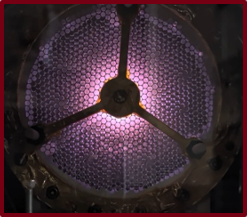
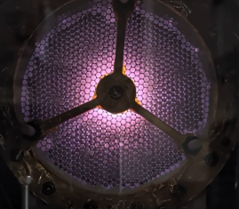
Crop baked-in maroon border off ion-thruster images for uniform grid
final-cad.png, front-plasma.png, and top-plasma.png each had a 4px
maroon border baked into the pixels (leftover from a slide export),
which made them look inconsistent next to the new final-assembly
photo that has no border. Cropped the border off all three and
updated their width/height attributes to match.

diff --git a/projects/ion-thruster-test-stand.html b/projects/ion-thruster-test-stand.html
@@ -73,7 +73,7 @@
       </article>
       <div class="media-grid media-grid--compact">
         <figure>
-          <img src="../assets/projects/ion-thruster/final-cad.png" width="259" height="259" loading="lazy" alt="CAD model of the ion thruster assembly." />
+          <img src="../assets/projects/ion-thruster/final-cad.png" width="251" height="251" loading="lazy" alt="CAD model of the ion thruster assembly." />
           <figcaption>Final CAD model.</figcaption>
         </figure>
         <figure>
@@ -81,11 +81,11 @@
           <figcaption>Final assembled hardware.</figcaption>
         </figure>
         <figure>
-          <img src="../assets/projects/ion-thruster/front-plasma.png" width="247" height="217" loading="lazy" alt="Front plasma glow visible through the ion thruster hardware." />
+          <img src="../assets/projects/ion-thruster/front-plasma.png" width="239" height="209" loading="lazy" alt="Front plasma glow visible through the ion thruster hardware." />
           <figcaption>Front plasma test image.</figcaption>
         </figure>
         <figure>
-          <img src="../assets/projects/ion-thruster/top-plasma.png" width="244" height="191" loading="lazy" alt="Top view of plasma visible in the ion thruster test." />
+          <img src="../assets/projects/ion-thruster/top-plasma.png" width="236" height="183" loading="lazy" alt="Top view of plasma visible in the ion thruster test." />
           <figcaption>Top plasma test image.</figcaption>
         </figure>
       </div>